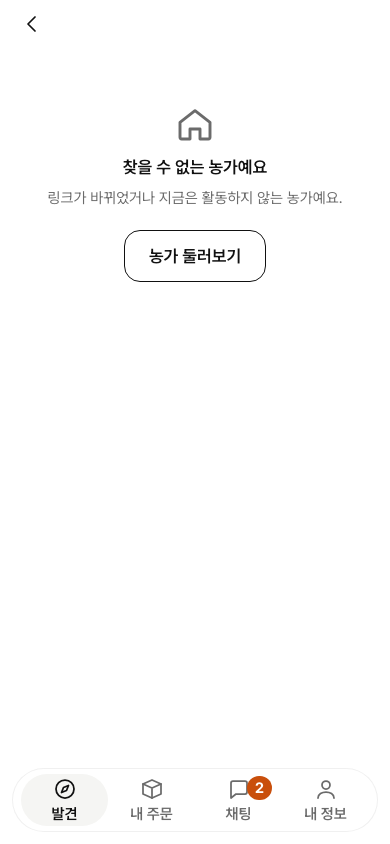
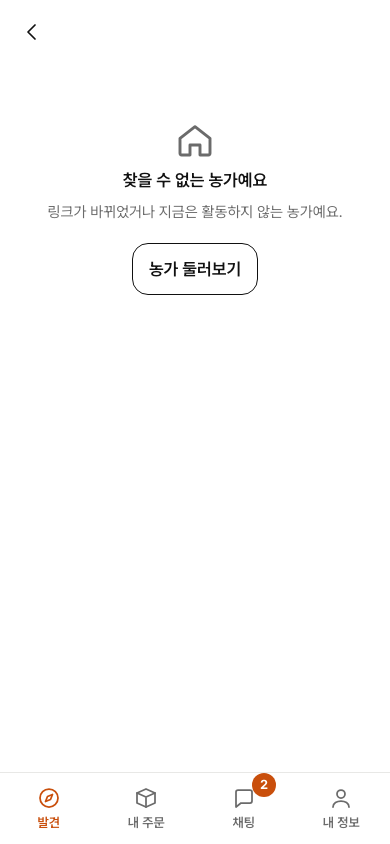
docs(design): replace DEV-224 after captures with the implemented screens (DEV-224)

diff --git a/docs/design/proposals/dev-224-back-rules.html b/docs/design/proposals/dev-224-back-rules.html
@@ -114,7 +114,7 @@ pre { margin: 0; font-family: var(--mono); font-size: 13px; line-height: 1.55; b
   <h1>탭 하위 화면과 뒤로 규칙</h1>
   <p class="lead">채팅 탭이 다른 탭에서 연 방을 다시 열고, 새로고침한 화면의 뒤로가 아무 데도 안 가고, 없는 농가 링크가 고장 난 소식방처럼 보인다. 스펙이 정하지 않은 네 가지를 정하고 나면 두 앱의 모든 하위 화면에 뒤로 목적지가 하나씩 생긴다.</p>
   <div class="status">
-    <span class="pill hot">PM 결정 4개 대기 (a·b·c·d)</span>
+    <span class="pill hot">PM 승인 11/05 — a1 · b1 · c1 · d1, 구현됨</span>
     <span class="pill">근거: HE-01 · HE-X1 · HE-X3 · 디자인 감사 코드 결함 3</span>
     <span class="pill">위험 등급 일반 · 서버 변경 없음</span>
     <span class="pill">재현: 로컬 스택 origin/main 581b8c0, 390px</span>
@@ -327,6 +327,7 @@ pre { margin: 0; font-family: var(--mono); font-size: 13px; line-height: 1.55; b
     <div class="step"><div class="n">4</div><div><div class="act">목록에서 강씨네 귤밭 → 헤더 뒤로</div><span class="to">/chats?view=private — 목록</span></div></div>
     <div class="mini">새로고침한 방(<code>productId</code> 있음)의 뒤로도 상품. <code>productId</code>가 없으면 목록.</div>
   </div>
+  <div class="strip" style="margin-top:12px"><div class="shot"><img src="DEV-224/after-he01-chat-tab.png" alt="채팅 탭을 누르면 채팅 목록"><span><b>구현</b> 3단계 채팅 탭 → 목록</span></div></div>
 
   <h3 style="margin-top:28px">HE-X3 내 주문 탭이 주문 완료를 다시 연다</h3>
   <div class="pair">
@@ -348,6 +349,7 @@ pre { margin: 0; font-family: var(--mono); font-size: 13px; line-height: 1.55; b
         <div class="step"><div class="n hit">3</div><div><div class="act">하단 내 주문 탭</div><span class="to hit">/orders — 주문 내역</span></div></div>
         <div class="mini">채팅·내 정보, 생산자 상품·채팅·환경설정 탭도 같은 규칙.</div>
       </div>
+      <div class="strip" style="margin-top:12px"><div class="shot"><img src="DEV-224/after-x3-orders-tab.png" alt="내 주문 탭을 누르면 주문 내역"><span><b>구현</b> 내 주문 탭 → 주문 내역</span></div></div>
     </div>
   </div>
 
@@ -370,6 +372,12 @@ pre { margin: 0; font-family: var(--mono); font-size: 13px; line-height: 1.55; b
     <div class="step"><div class="n hit">5</div><div><div class="act">판매페이지 만들기 <code>/products/source-analysis</code></div><span class="to hit">/products</span></div></div>
     <div class="mini">앱 안에서 들어왔으면 지금처럼 이전 화면.</div>
   </div>
+  <div class="strip" style="margin-top:12px">
+    <div class="shot"><img src="DEV-224/after-x1-1-pay.png" alt="입금 안내 뒤로 → 주문 상세"><span><b>구현</b> 입금 안내 → 주문 상세</span></div>
+    <div class="shot"><img src="DEV-224/after-x1-2-inquiry.png" alt="주문 문의 뒤로 → 주문 상세"><span>주문 문의 → 주문 상세</span></div>
+    <div class="shot"><img src="DEV-224/after-x1-3-sell.png" alt="판매·가격 뒤로 → 상품 목록"><span>판매·가격 → 상품 목록</span></div>
+    <div class="shot"><img src="DEV-224/after-x1-4-stages.png" alt="예약 기간·가격 뒤로 → 상품 목록"><span>예약 기간·가격 → 상품 목록</span></div>
+  </div>
 
   <h3 style="margin-top:28px">없는 농가 링크</h3>
   <div class="pair">
@@ -379,7 +387,7 @@ pre { margin: 0; font-family: var(--mono); font-size: 13px; line-height: 1.55; b
     </div>
     <div>
       <div class="flabel"><b class="good">AFTER</b> <span style="color:var(--muted);font-size:14px">d1 · 디자인 보드 <code>s-03-notfound</code></span></div>
-      <div class="strip"><div class="shot big"><img src="DEV-224/after-farm-notfound.png" alt="찾을 수 없는 농가예요, 농가 둘러보기"><span>헤더는 뒤로만. ‘찾을 수 없는 농가예요’ · ‘농가 둘러보기’ → <code>/farms</code></span></div></div>
+      <div class="strip"><div class="shot big"><img src="DEV-224/after-farm-notfound.png" alt="찾을 수 없는 농가예요, 농가 둘러보기"><span><b>구현</b> 헤더는 뒤로만. ‘찾을 수 없는 농가예요’ · ‘농가 둘러보기’ → <code>/farms</code></span></div></div>
     </div>
   </div>
 </section>
@@ -396,7 +404,8 @@ export const goBackOr = (router: Router, fallback: Href) =&gt;
     <div class="card">
       <h3>도우미만으로는 HE-01이 안 고쳐진다</h3>
       <p><code>router.canGoBack()</code>은 탭 기록까지 본다. 그래서 채팅 스택에 방 하나만 있어도 참이 되고, 뒤로가 다른 탭으로 간다. HE-01은 도우미가 아니라 <b>(a) 명시 목적지</b>와 <b>(b) 탭 누름 규칙</b>으로 고친다.</p>
-      <p>로컬에서 빨리 해 본 것: <code>unstable_settings.initialRouteName = "index"</code>, 상품 → 방 push에 <code>withAnchor: true</code>, 탭 누름을 늘 <code>navigate(name, { screen: "index" })</code>로 바꾸기. 셋 다 HE-01 흐름이 그대로였다(되돌림). 구현 때는 탭 누름에서 하위 스택을 첫 화면으로 되돌리는 동작(<code>StackActions.popToTop</code>이나 하위 스택 reset)을 Playwright로 먼저 확인한다.</p>
+      <p><b>2단계에서 확인한 원인과 방법.</b> 다른 탭에서 연 방은 채팅 탭 route에 하위 스택 상태 없이 <code>params</code>(<code>screen: "[farmId]"</code>)로만 남는다. 그래서 탭 누름에서 <code>navigation.navigate(name, { screen: "index", params: {} })</code>로 그 params를 덮고, 하위 스택 상태가 있으면 <code>CommonActions.reset</code>으로 첫 화면만 남긴다(<code>openTabRoot</code>). Playwright로 HE-01·HE-X3 모두 확인했다.</p>
+      <p>1단계 메모의 “쉬운 수정 3가지가 효과 없음”은 로컬 개발 서버가 고친 파일을 다시 읽지 않은 상태에서 본 결과였다(서버를 다시 띄운 뒤 확인).</p>
     </div>
   </div>
 </section>
